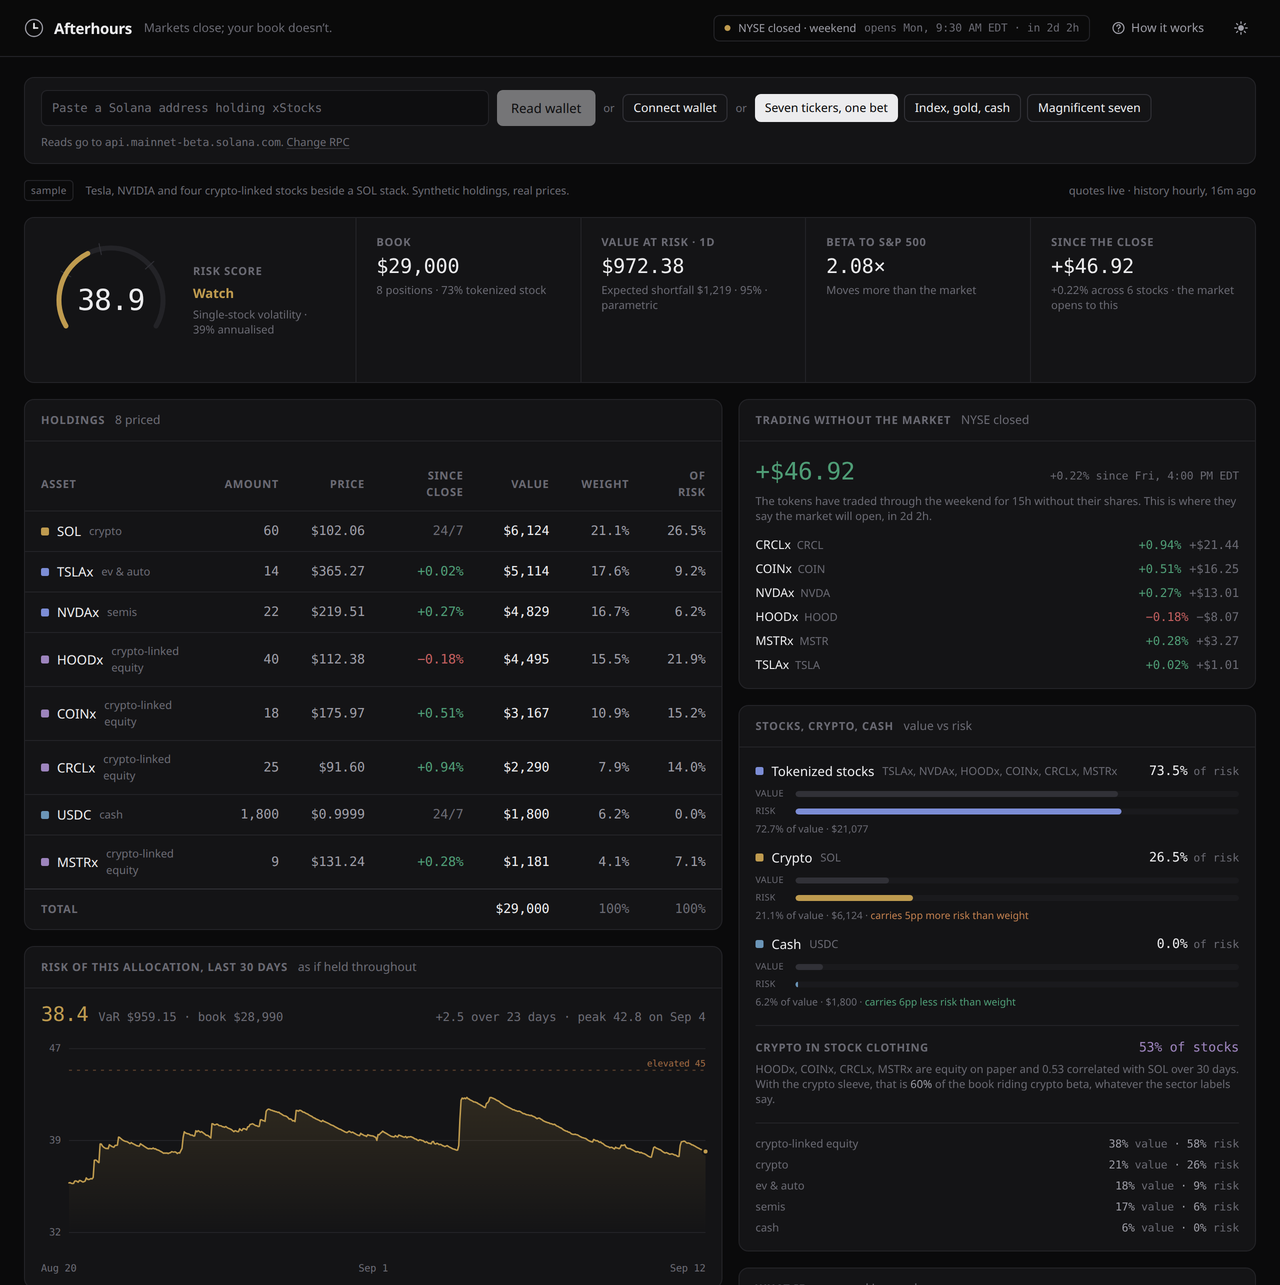
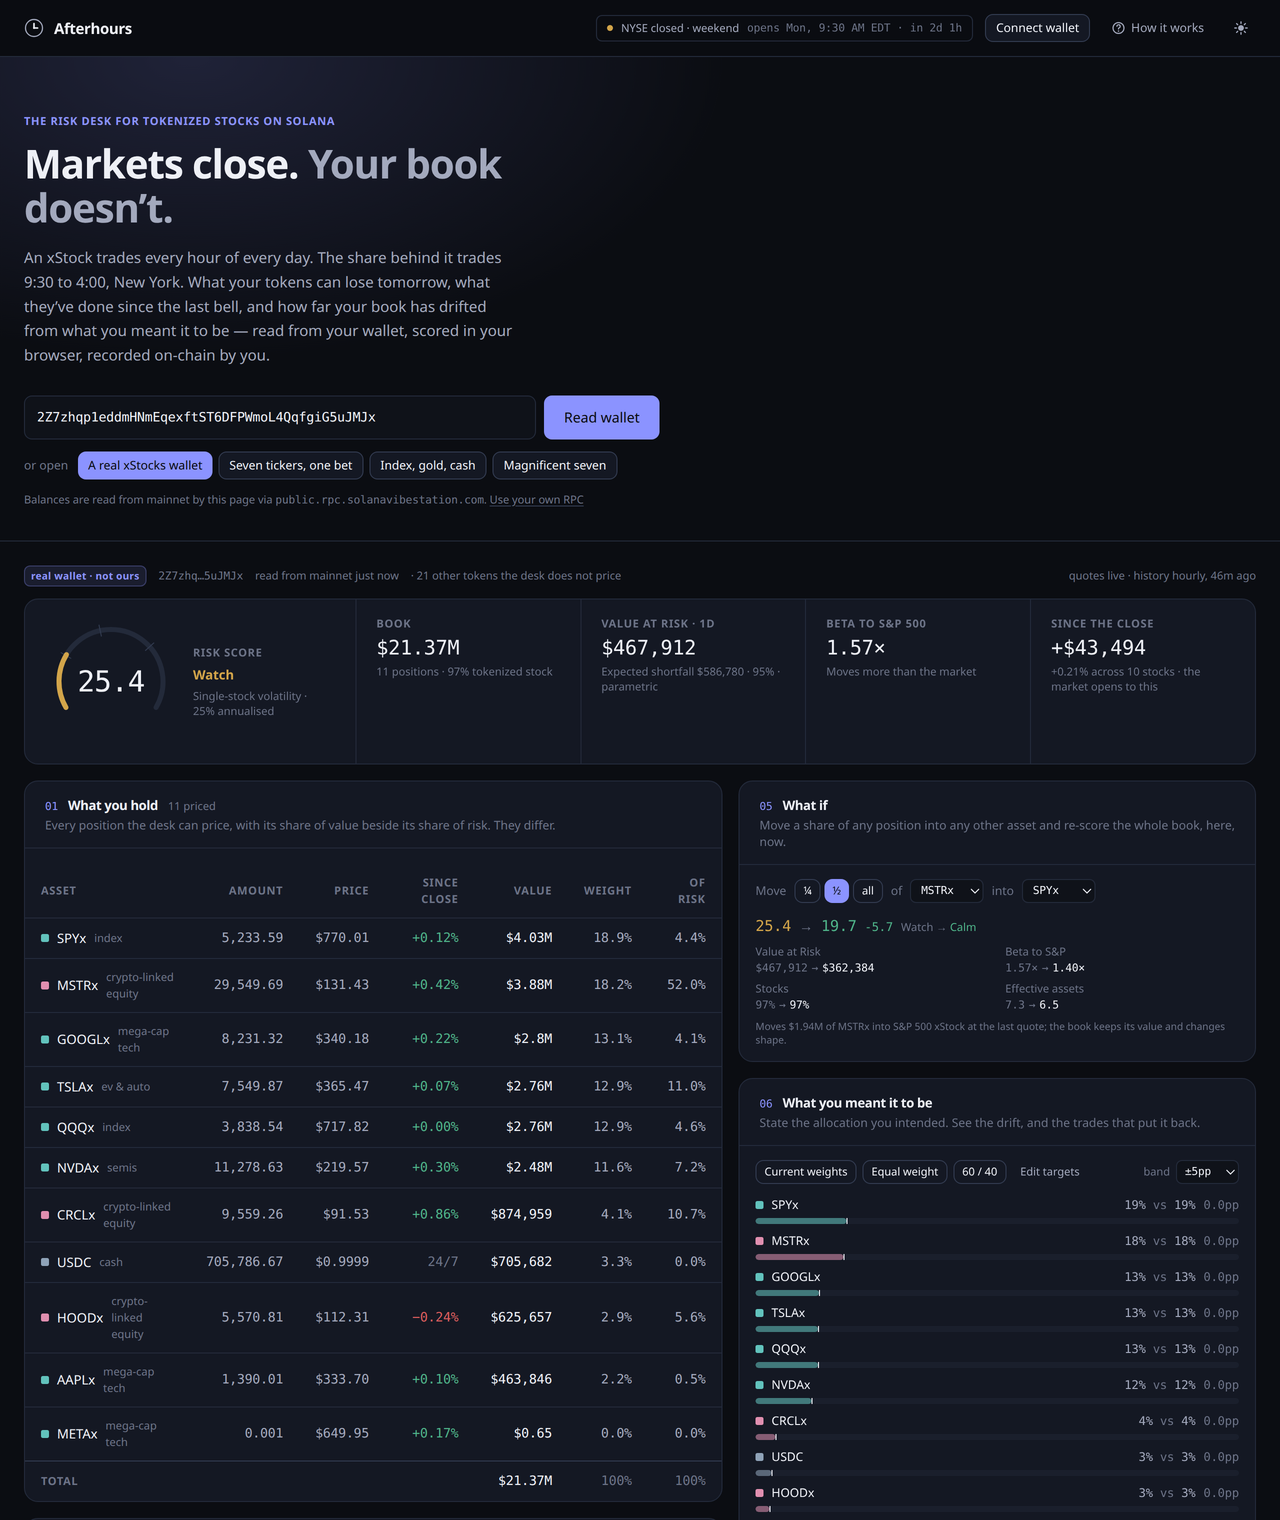
Count-up honours reduced motion; README shows a real wallet
The score tween now snaps for a viewer who asked for less motion. The
README's picture is the desk reading a real $21M xStocks wallet on
mainnet, and the RPC note says what actually works from a browser.

diff --git a/app/lib/hooks.ts b/app/lib/hooks.ts
@@ -12,6 +12,12 @@ export function useCountUp(target: number, duration = 600): number {
     if (!Number.isFinite(target)) return;
     const from = currentRef.current;
     if (from === target) return;
+    // A viewer who asked for less motion gets the number, not the tween.
+    if (window.matchMedia?.("(prefers-reduced-motion: reduce)").matches) {
+      currentRef.current = target;
+      setValue(target);
+      return;
+    }
     const start = performance.now();
     const step = (now: number) => {
       const t = Math.min(1, (now - start) / duration);

diff --git a/README.md b/README.md
@@ -15,7 +15,11 @@
 
 </div>
 
-![The Afterhours desk: risk score, book, one-day VaR, beta to the S&P 500, the move since the last NYSE close, holdings, and the panels behind them](docs/desk.png)
+![The Afterhours desk reading a real $21M xStocks wallet on mainnet: risk score, book, one-day VaR, beta to the S&P 500, the move since the last NYSE close, holdings with each position's share of risk, and a what-if moving half of MSTRx into SPYx](docs/desk.png)
+
+<div align="center">
+<sub>A real wallet, not ours — nine xStocks and USDC, read live. MSTRx is 18% of its value and 52% of its risk.</sub>
+</div>
 
 ---
 
@@ -54,7 +58,9 @@ them — and scores the book in the browser:
 | **Your record on Solana** | Declare the policy on-chain. Record a snapshot. Both signed by the wallet that owns the book. |
 
 Three sample books are built in for anyone without xStocks yet, labelled
-synthetic, priced live.
+synthetic, priced live — and one real mainnet wallet, found through the
+largest SPYx token accounts and labelled as not ours. Any view is a link:
+`?address=<wallet>` or `?book=<sample>`.
 
 ## Where Solana is load-bearing
 
@@ -108,11 +114,13 @@ There is no server. The site is a static export on GitHub Pages:
 Nothing sleeps, nothing has a cold start, and nothing about a book leaves the
 browser except what its owner chooses to sign.
 
-> **One key.** The public mainnet RPC refuses browser-origin token-account
-> queries, and so does every keyless alternative. A build should carry a free
-> [Helius](https://helius.dev) key as `NEXT_PUBLIC_RPC_URL`, restricted to the
-> site's domain. Without one, the desk still opens with sample books and
-> offers a field to paste an endpoint, kept in that browser.
+> **On RPCs.** Solana's public mainnet endpoint refuses browser-origin
+> token-account queries with a 403, and most keyless alternatives gate them.
+> [Solana Vibe Station](https://solanavibestation.com)'s public endpoint
+> answers them with CORS open, so it is the default; a build can carry its
+> own key as `NEXT_PUBLIC_RPC_URL` (a free [Helius](https://helius.dev) key,
+> restricted to the site's domain), and any viewer can paste an endpoint,
+> kept in their browser. Each failure falls through to the next.
 
 ## The universe
 
